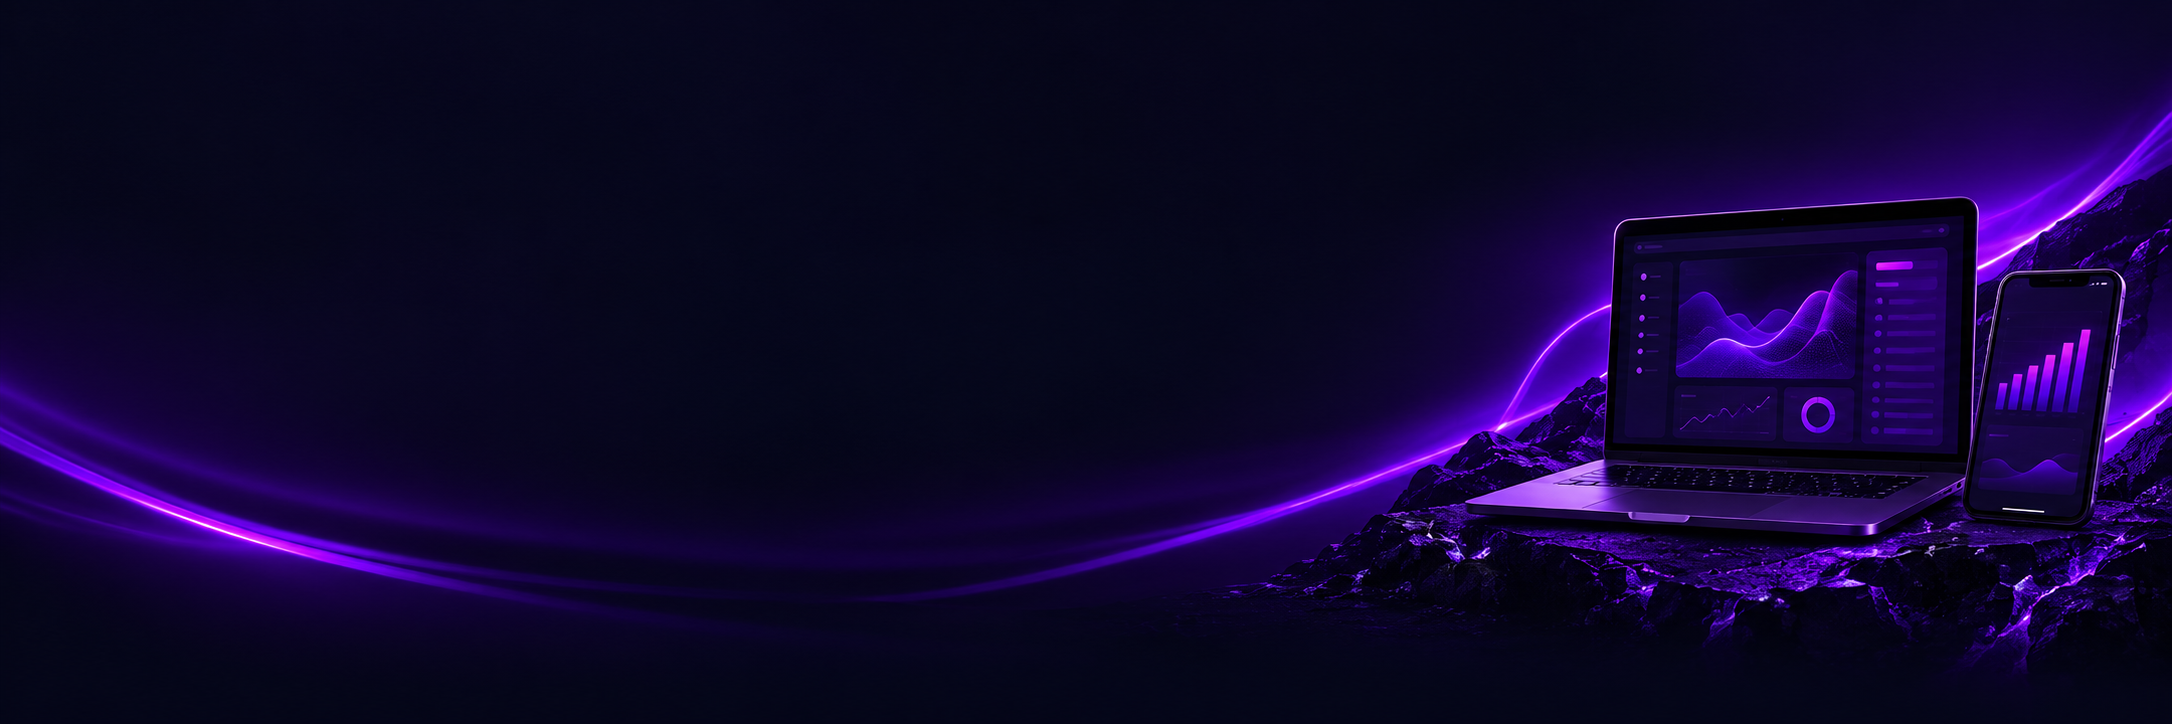
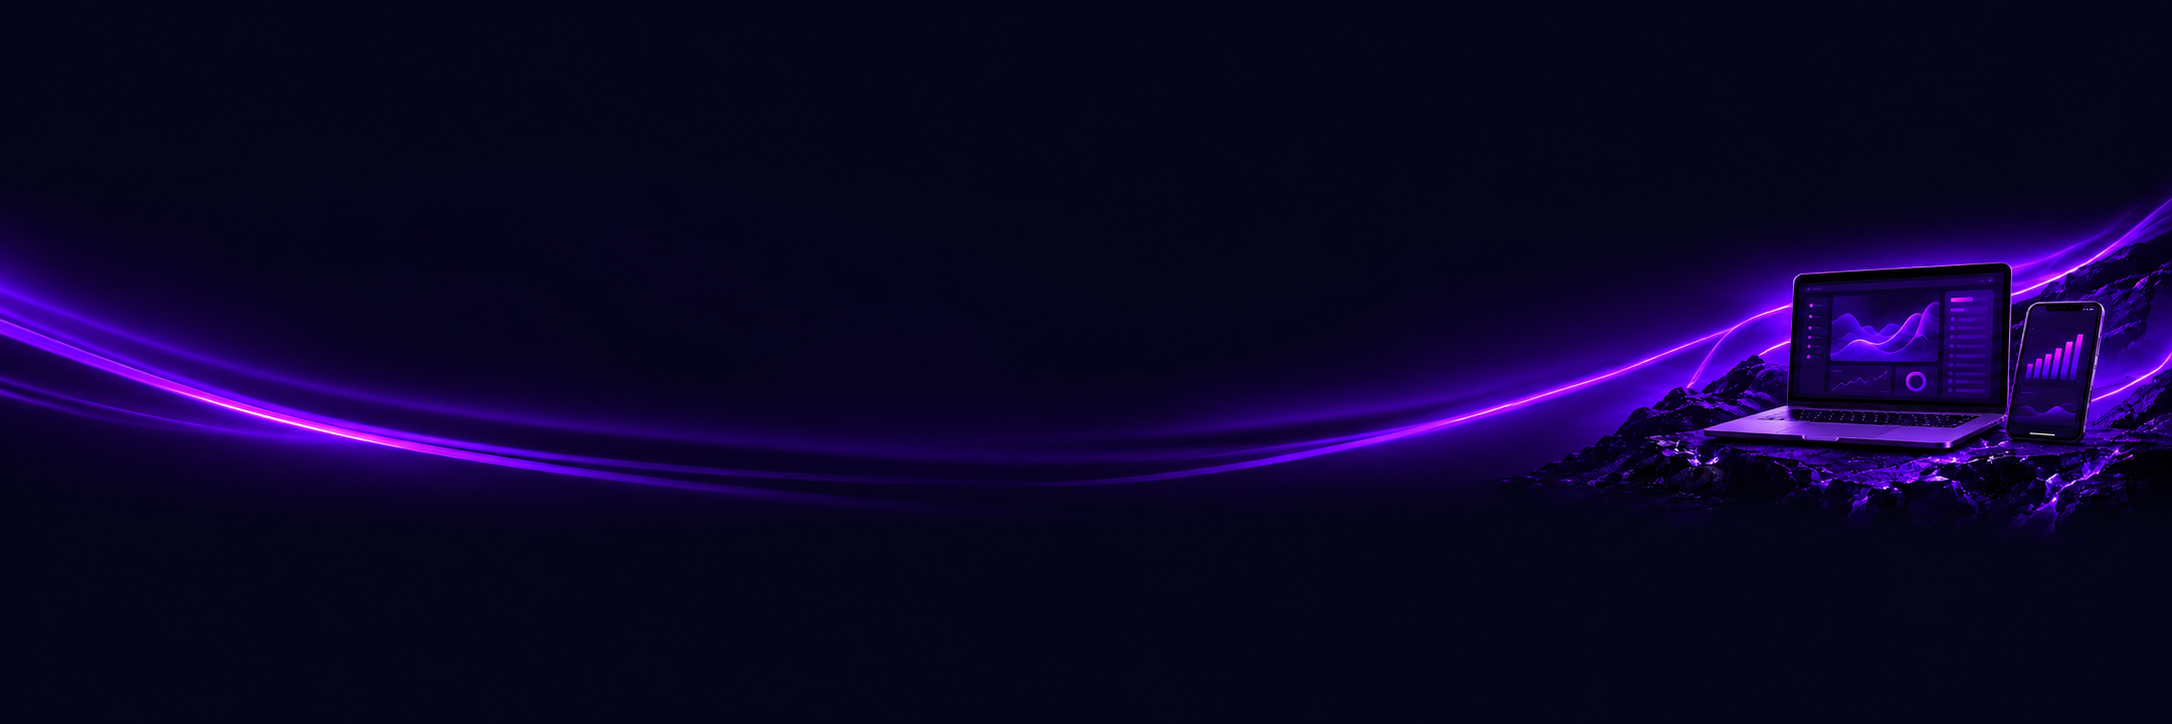
Mejora fondo y animacion del encabezado

Changed region(s): [[0.0, 0.0608, 1.0, 0.942], [0.401, 0.8204, 0.4319, 0.8508]]

diff --git a/src/main/Resources/templates/index.html b/src/main/Resources/templates/index.html
@@ -612,6 +612,68 @@
     <a href="https://wa.me/51932341719" target="_blank" rel="noopener noreferrer" class="fixed bottom-6 right-6 z-50 bg-emerald-500 text-slate-950 p-4 rounded-full shadow-2xl hover:bg-emerald-400 transition flex items-center justify-center text-2xl" aria-label="WhatsApp">
         <i aria-hidden="true" class="fa-brands fa-whatsapp"></i>
     </a>
+   <script>
+(() => {
+    const encabezado = document.querySelector(".alsha-header");
+    const botonMenu = document.getElementById("menu-toggle");
+
+    if (!encabezado) return;
+
+    let posicionAnterior = Math.max(0, window.scrollY);
+    let temporizador;
+
+    function ocultar() {
+        encabezado.classList.remove("encabezado-apareciendo");
+        encabezado.classList.add("encabezado-oculto");
+    }
+
+    function mostrar() {
+        if (!encabezado.classList.contains("encabezado-oculto")) {
+            return;
+        }
+
+        encabezado.classList.remove("encabezado-oculto");
+        encabezado.classList.add("encabezado-apareciendo");
+    }
+
+    window.addEventListener("scroll", () => {
+        const posicionActual = Math.max(0, window.scrollY);
+        const diferencia = posicionActual - posicionAnterior;
+
+        // Ignora movimientos mínimos.
+        if (Math.abs(diferencia) < 2) return;
+
+        posicionAnterior = posicionActual;
+        clearTimeout(temporizador);
+
+        const menuAbierto =
+            botonMenu?.getAttribute("aria-expanded") === "true";
+        const tieneFoco =
+            encabezado.contains(document.activeElement);
+
+        if (
+            diferencia > 0 &&
+            posicionActual > encabezado.offsetHeight &&
+            !menuAbierto &&
+            !tieneFoco
+        ) {
+            ocultar();
+        } else {
+            mostrar();
+        }
+
+        temporizador = setTimeout(mostrar, 600);
+    }, { passive: true });
+
+    encabezado.addEventListener("animationend", (evento) => {
+        if (evento.animationName === "revelar-encabezado") {
+            encabezado.classList.remove("encabezado-apareciendo");
+        }
+    });
+
+    encabezado.addEventListener("focusin", mostrar);
+})();
+</script>
 
 </body>
 </html>

diff --git a/src/main/Resources/static/css/cabecera.css b/src/main/Resources/static/css/cabecera.css
@@ -211,3 +211,62 @@ main[id],
         transition: none;
     }
 }
+@media (min-width: 1200px) {
+    .alsha-header {
+        background-color: #0b0f19;
+        background-image:
+            linear-gradient(
+                to bottom,
+                rgba(11, 15, 25, 0.45),
+                rgba(11, 15, 25, 0.85)
+            ),
+            url("../imagenes/cabecera-alsha.png");
+        background-size: cover;
+        background-position: center;
+        background-repeat: no-repeat;
+        border-bottom: 1px solid rgba(168, 85, 247, 0.12);
+    }
+
+    .alsha-header__bar {
+        min-height: 80px;
+        padding: 10px 32px;
+    }
+
+    section[id],
+    main[id],
+    #privacidad {
+        scroll-margin-top: 96px;
+    }
+}
+/* Encabezado visible */
+.alsha-header {
+    transform: none;
+    clip-path: inset(0);
+    transition: none;
+}
+
+/* Se oculta mientras bajas */
+.alsha-header.encabezado-oculto {
+    clip-path: inset(0 100% 0 0);
+    pointer-events: none;
+}
+
+/* Al detenerte, se revela de izquierda a derecha */
+.alsha-header.encabezado-apareciendo {
+    animation: revelar-encabezado 1s linear both;
+}
+
+@keyframes revelar-encabezado {
+    from {
+        clip-path: inset(0 100% 0 0);
+    }
+    to {
+        clip-path: inset(0);
+    }
+}
+
+@media (prefers-reduced-motion: reduce) {
+    .alsha-header.encabezado-apareciendo {
+        animation: none;
+    }
+}
